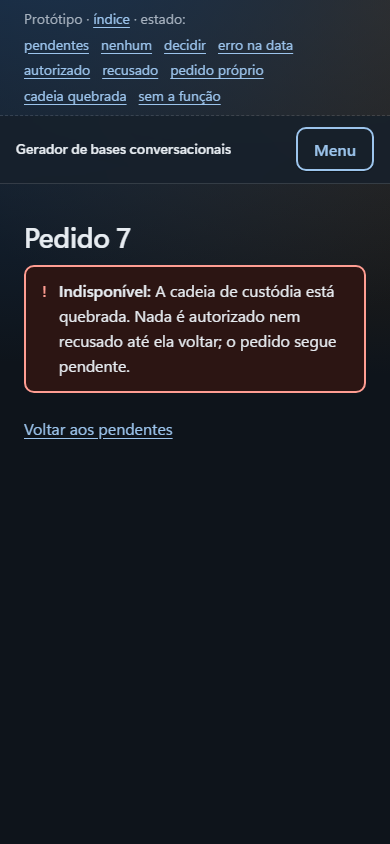
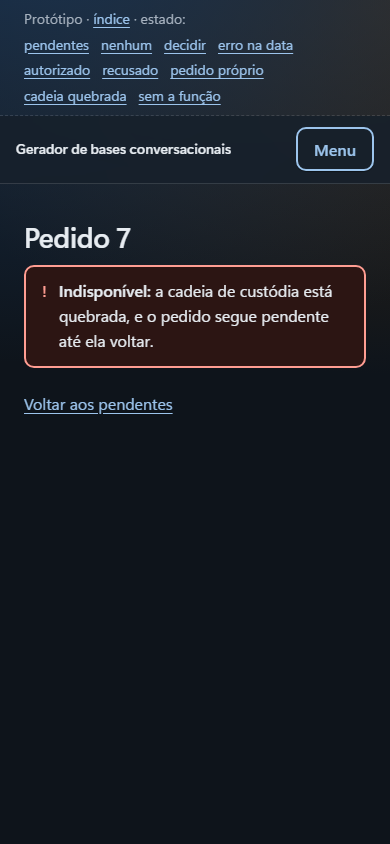
docs: fase 5, achados da revisão do delta até ca1df3d5

Changed region(s): [[0.0615, 0.3389, 0.9538, 0.5237]]

diff --git a/docs/arquitetura/fases/005-pseudonimizacao/prototipos/autorizacao.html b/docs/arquitetura/fases/005-pseudonimizacao/prototipos/autorizacao.html
@@ -182,7 +182,7 @@
             <h1 id="cadeia-titulo">Pedido 7</h1>
             <div class="notice notice--error" role="alert">
                 <span class="notice__mark" aria-hidden="true">!</span>
-                <p><span class="notice__kind">Indisponível:</span> A cadeia de custódia está quebrada. Nada é autorizado nem recusado até ela voltar; o pedido segue pendente.</p>
+                <p><span class="notice__kind">Indisponível:</span> a cadeia de custódia está quebrada, e o pedido segue pendente até ela voltar.</p>
             </div>
             <p><a href="#lista">Voltar aos pendentes</a></p>
         </section>

diff --git a/docs/arquitetura/fases/005-pseudonimizacao/prototipos/prototipo.css b/docs/arquitetura/fases/005-pseudonimizacao/prototipos/prototipo.css
@@ -2,7 +2,8 @@
     Só dos protótipos da fase 5. A barra de estados e a troca de estado por âncora (:target, sem script)
     são andaime de protótipo e não vão para as telas. O resto (recolhido, linha de situação, lista em
     linhas, identidade revelada) segue a decisão 0058 e entra em screens.css como componente quando a
-    fatia de tela precisar.
+    fatia de tela precisar. A barra soma altura que a tela real não tem: a primeira dobra da 0058 se
+    mede sem ela.
 */
 
 /* Andaime: a barra que troca o estado, discreta, acima da tela. */

diff --git a/docs/arquitetura/fases/005-pseudonimizacao/fatia-b-mapa-e-pseudonimizado.md b/docs/arquitetura/fases/005-pseudonimizacao/fatia-b-mapa-e-pseudonimizado.md
@@ -3,11 +3,11 @@
 > Norma pendente. 2026-11-22. Fecha #101. Teto da fatia: 1.200 linhas de produção.
 
 A troca roda síncrona na submissão, logo depois da sanitização e antes de gravar o item, quando a
-[fatia F](fatia-f-correferencia.md) a ligar. Cada item nasce com o pseudonimizado, com o mapa dele (marcador e original, selado com a finalidade
-do mapa) e com os marcadores em claro, o do autor incluído. A tela do lote ganha a seção da
-pseudonimização: marcadores por tipo e itens com marcador, contados dos marcadores do item, só
-números. A reexecução da fase 4 refaz o pseudonimizado e o mapa junto com o sanitizado. O protótipo
-é `lote.html`, em [protótipos](prototipos/index.html).
+[fatia F](fatia-f-correferencia.md) a ligar. Cada item nasce com o pseudonimizado, com o mapa dele
+(marcador e original, selado com a finalidade do mapa) e com os marcadores em claro, o do autor
+incluído. A tela do lote ganha a seção da pseudonimização: marcadores por tipo e itens com marcador,
+contados dos marcadores do item, só números. A reexecução da fase 4 refaz o pseudonimizado e o mapa
+junto com o sanitizado. O protótipo é `lote.html`, em [protótipos](prototipos/index.html).
 
 **Pseudonimizado cifrado** com a chave do item: [0030](../../../decisoes/0030-qual-texto-fica-em-claro.md)
 (linha 24), [0049](../../../decisoes/0049-chave-por-item-e-epoca.md) (linha 27) e CA-3 da #102.
@@ -15,6 +15,10 @@ números. A reexecução da fase 4 refaz o pseudonimizado e o mapa junto com o s
 **O que a F espera da B.** A troca recebe o referente de cada ocorrência pronto, e a B a prova com o
 referente dado no teste. O grupo que vira referente, a ligação da troca à submissão e à reexecução,
 o gatilho de item_resanitized e os testes que passam pela submissão são da F3, que fecha a #102.
+
+**Reexecução e marcadores em uso.** A reexecução mantém as linhas do item em content.marker_in_use e
+em content.item_marker, sem sortear de novo, e insere só o marcador novo. O marcador que some do
+texto sai de item_marker e continua reservado em marker_in_use, para nunca voltar em outra conversa.
 
 **Prova da reexecução idêntica (#102 CA-2).** Rodar de novo no mesmo processo, sobre o mesmo
 sanitizado e o mapa do item, aberto com o evento de leitura: os marcadores vêm do mapa, então outro
@@ -25,7 +29,7 @@ processo não muda o resultado. Nenhum outro mapa é aberto ([contratos](contrat
 | Projeto | Testes |
 |---|---|
 | `Core.Ingestion.Tests` | PseudonymizingAgainGivesTheSameBytesAndMarkers (#102 CA-2, propriedade); SwapTakesNoMapButTheOneOfItsItem; RemovedSpanNeverBecomesAMapEntry (#101 CA-5) |
-| `Core.Persistence.Content.Tests` | DatabaseCopyHasNoReadableMapEntry (#101 CA-1); MapOfOneDomainDoesNotOpenWithTheKeyOfAnother (#101 CA-2); EveryMapOpeningAddsAnEventWithoutTheValue (#101 CA-3); MapCannotBeFilteredInTheDatabase e MapCannotBeOrderedInTheDatabase (#101 CA-4); DatabaseCopyReadsNeitherSanitizedNorPseudonymized (#102 CA-3, opção da 0030); PseudonymizedWithoutItsMapIsRefused e PseudonymizedWithoutTheEventIsRefused (#102 CA-4, uma condição do gatilho cada); RemovedSpanIsRefusedFromTheMapAndTheAttemptIsRecorded (#101 CA-5); ItemMarkersAreEmptiedWithTheItem; MarkerIsUniqueInTheInstallation; DrawLosingToAnotherDomainDrawsAgainWithoutReadingIt |
+| `Core.Persistence.Content.Tests` | DatabaseCopyHasNoReadableMapEntry (#101 CA-1); MapOfOneDomainDoesNotOpenWithTheKeyOfAnother (#101 CA-2); EveryMapOpeningAddsAnEventWithoutTheValue (#101 CA-3); MapCannotBeFilteredInTheDatabase e MapCannotBeOrderedInTheDatabase (#101 CA-4); DatabaseCopyReadsNeitherSanitizedNorPseudonymized (#102 CA-3); PseudonymizedWithoutItsMapIsRefused e PseudonymizedWithoutTheEventIsRefused (#102 CA-4, uma condição do gatilho cada); RemovedSpanIsRefusedFromTheMapAndTheAttemptIsRecorded (#101 CA-5); ItemMarkersAreEmptiedWithTheItem; MarkerIsUniqueInTheInstallation; ResanitizedItemKeepsItsMarkersWithoutDrawingAgain; MarkerGoneFromTheTextStaysReserved; DrawLosingToAnotherDomainDrawsAgainWithoutReadingIt |
 | `Core.Host.Tests` | EveryWritingPathRefusesTextThatWasNotPseudonymized (#102 CA-4); BatchScreenShowsMarkerCountsByKindAndNoText |
 | `Core.Host.Tests.Browser` | PseudonymizationSectionIsReadByKeyboardAndPassesTheAccessibilityCheck |
 

diff --git a/docs/arquitetura/fases/005-pseudonimizacao/riscos.md b/docs/arquitetura/fases/005-pseudonimizacao/riscos.md
@@ -26,7 +26,7 @@ reversão, cada um uma linha nova com o evento na mesma transação.
 | Precisão | A correferência liga a menção ao nome do autor errado, ou não liga | A F1 mede a ligação ao autor à parte, e a decisão diz se ela vale; se não vale, é limite declarado: a menção ao autor recebe marcador próprio, distinto do dele | F1: MeasurementReportsTheLinkToAuthorsApart; F3: MentionLinkedToAnAuthorGetsTheAuthorMarker; MentionOfAnAuthorWithTheLinkOffGetsItsOwnMarker |
 | Precisão | Conversa longa demais para um pedido | A F1 mede tempo e memória pelo tamanho da conversa, e a decisão fixa o máximo do pedido | F1: MeasurementReportsTimeAndMemoryByConversationSize |
 | Dado pessoal | O mesmo marcador em duas conversas liga pessoas que o sistema não sabe ligar | Escopo na conversa (0057) e unicidade na instalação | A: NoMarkerAppearsInTwoConversations; B: MarkerIsUniqueInTheInstallation |
-| Dado pessoal | Item antigo ganha pseudonimizado com ocorrência que a resposta de agora não traz | Sem par de mesma posição e tipo, o item é recusado com o motivo e fica sem pseudonimizado | F3: OldItemWithAnOccurrenceWithoutPairIsRefusedWithTheReason |
+| Dado pessoal | Item antigo ganha pseudonimizado com ocorrência que a resposta de agora não traz | Sem par de mesmo texto, posição e tipo, o item é recusado e fica sem pseudonimizado, fora da anotação; o acompanhamento da fila o conta com o motivo, e um pedido novo o põe na fila outra vez | F3: OldItemWithAnOccurrenceWithoutPairIsRefusedWithTheReason |
 | Dado pessoal | O marcador revela algo do original | O número é sorteado, sem relação com o nome nem com a ordem de chegada | A: MarkerCarriesNoInitialLengthNorAlphabeticalPosition; MarkerDoesNotRevealTheOrderOfAppearance (#100 CA-4) |
 | Dado pessoal | Uma senha vai para o mapa | Entrada de destino remover lança antes de selar; o gravador a recusa e o evento fica | B: RemovedSpanIsRefusedFromTheMapAndTheAttemptIsRecorded (#101 CA-5) |
 | Dado pessoal | Uma cópia do banco expõe o mapa ou o porquê do pedido | As entradas e o texto do pedido vão selados com a finalidade do mapa e a chave da linha | B: DatabaseCopyHasNoReadableMapEntry (#101 CA-1); C: DatabaseCopyHasNoReadableRequestText |
@@ -53,5 +53,5 @@ Nenhum item tem pseudonimizado antes da F3, que o dá a cada um em segundo plano
 ([fatia F](fatia-f-correferencia.md)). Os gravados antes da fatia A guardam o lugar como `Preserve`
 no destino selado (`OccurrenceJson`, linha 37), e a política não entra na versão da lista de passos
 (`SanitizationSteps`, linhas 23 a 25). Nesse primeiro pseudonimizado, o `Preserve` de lugar vira
-`Pseudonymize` sem chamar o serviço, exceção declarada à regra da reexecução
+`Pseudonymize` sem que o serviço o decida, exceção declarada à regra da reexecução
 (`SanitizationRerun`, linhas 5 a 8), pela [0056](../../../decisoes/0056-toponimo-vira-marcador.md).

diff --git a/docs/arquitetura/fases/005-pseudonimizacao/fatia-f-correferencia.md b/docs/arquitetura/fases/005-pseudonimizacao/fatia-f-correferencia.md
@@ -14,9 +14,8 @@ liga ao nome de um autor da mesma conversa recebe o marcador dele.
 ([medição](../../../historico/003-medicao-do-modelo.md), linha 18). F1 escolhe o modelo, mede em
 pt-BR sobre conversas inteiras ([015](../../../operacao/015-medicao-do-modelo-de-linguagem.md)) e
 escreve a decisão nova que substitui a [0018](../../../decisoes/0018-contrato-da-fronteira.md) na
-forma da resposta. A decisão fixa o
-limiar de precisão, o tamanho máximo do pedido e se a ligação ao nome do autor é confiável; modelo
-abaixo do limiar não entra. O modelo tem de caber na
+forma da resposta. A decisão fixa o limiar de precisão, o tamanho máximo do pedido e se a ligação ao
+nome do autor é confiável; modelo abaixo do limiar não entra. O modelo tem de caber na
 [0041](../../../decisoes/0041-distribuicao-do-servico-de-linguagem.md) e operar sem serviço externo.
 
 **F2 — serviço e contrato.** O pedido leva os textos do item na ordem de `MaterialTexts`, cada
@@ -29,13 +28,14 @@ a devolver grupos.
 **F3 — o núcleo usa o grupo.** Um pedido por item; o grupo vira o referente da troca da fatia B, e
 a F3 liga a troca à submissão e à reexecução da fase 4. Até ela, nenhum item recebe pseudonimizado.
 
-**Primeiro pseudonimizado.** A F3 o dá, em segundo plano, pela fila e pelo trabalhador da
-reexecução da fase 4 (`RerunService`), a todo item sem ele: os gravados antes da F3. O serviço é
-chamado sobre o bruto do item só pelo grupo; cada ocorrência guardada (`OccurrenceJson`, linha 37)
-toma o grupo da de mesmo texto, posição e tipo, e item com ocorrência sem par é recusado com o
-motivo. Nenhum destino é decidido de novo, com uma exceção declarada à regra da reexecução
-(`SanitizationRerun`, linhas 5 a 8): o `Preserve` de lugar dos itens anteriores à fatia A vira
-`Pseudonymize` sem chamar o serviço ([0056](../../../decisoes/0056-toponimo-vira-marcador.md)).
+**Primeiro pseudonimizado.** A F3 o dá, em segundo plano, pela fila e pelo trabalhador da reexecução
+da fase 4 (`RerunService`), a todo item gravado antes dela. O serviço é chamado sobre o bruto só
+pelo grupo; cada ocorrência guardada (`OccurrenceJson`, linha 37) toma o grupo da de mesmo texto,
+posição e tipo. Item com ocorrência sem par é recusado, fica sem pseudonimizado e fora da anotação,
+e o acompanhamento da fila o conta com o motivo; um pedido novo o põe na fila outra vez. Nenhum
+destino é decidido de novo, com uma exceção declarada (`SanitizationRerun`, linhas 5 a 8): o
+`Preserve` de lugar dos itens anteriores à fatia A vira `Pseudonymize` sem que o serviço o decida
+([0056](../../../decisoes/0056-toponimo-vira-marcador.md)).
 
 ## Critérios de aceite
 

diff --git a/docs/decisoes/0056-toponimo-vira-marcador.md b/docs/decisoes/0056-toponimo-vira-marcador.md
@@ -40,11 +40,11 @@ reversão, sob a mesma chave, finalidade e auditoria do nome de pessoa.
 Piora a análise que depende do lugar real (região, cidade grande ou pequena): ela passa a exigir
 reversão autorizada, item por item.
 
-O destino decidido na entrada fica guardado com cada item, e os gravados antes da mudança guardam
-o lugar como preservado. No primeiro pseudonimizado deles, esse destino vira pseudonimizar sem
-chamar o serviço de linguagem: é exceção declarada à regra de que a reexecução não decide destino
-de novo (`core/src/Core.Ingestion/Sanitizing/SanitizationRerun.cs`, linhas 5 a 8), e vale só para o
-lugar, o único destino preservado.
+O destino decidido na entrada fica guardado com cada item, e os gravados antes da mudança guardam o
+lugar como preservado. No primeiro pseudonimizado deles, esse destino vira pseudonimizar sem que o
+serviço de linguagem o decida de novo: é exceção declarada à regra de que a reexecução não decide
+destino de novo (`core/src/Core.Ingestion/Sanitizing/SanitizationRerun.cs`, linhas 5 a 8), e vale só
+para o lugar, o único destino preservado.
 
 ## O que reabre
 

diff --git a/docs/decisoes/0058-padrao-de-usabilidade-e-visual.md b/docs/decisoes/0058-padrao-de-usabilidade-e-visual.md
@@ -33,9 +33,10 @@ Os protótipos da fase 5 foram refeitos sem isso.
 8. Campo com rótulo curto; dica só quando o formato não é óbvio; "todos os campos são obrigatórios"
    uma vez, e não em cada campo.
 
-O PR de tela traz capturas em 390x844 e 1366x768, no tema do sistema, e quem revisa confere as
-regras nelas ([tela](../arquitetura/padroes/004-tela.md)). As telas que já existem são ajustadas
-depois da fase 5, uma issue por tela.
+No computador (1366x768), a tela cabe na primeira dobra, com a ação principal visível. O PR de tela
+traz capturas em 390x844 e 1366x768, no tema do sistema, e quem revisa confere as regras nelas
+([tela](../arquitetura/padroes/004-tela.md)). As telas que já existem são ajustadas depois da fase
+5, uma issue por tela.
 
 ## Alternativas recusadas
 

diff --git a/docs/arquitetura/003-fluxo-do-material.md b/docs/arquitetura/003-fluxo-do-material.md
@@ -30,8 +30,8 @@ sanitização fez.
 
 **Pseudonimização.** O que resta apontando para pessoas é trocado por rótulos estáveis, e a
 correspondência vai para o mapa de reversão, cifrado com chave e finalidade próprias. Estável é a
-palavra que importa: a mesma pessoa é o mesmo rótulo em todo o domínio, porque é isso que mantém a
-conversa legível depois de anonimizada.
+palavra que importa: a mesma pessoa é o mesmo rótulo em toda a conversa, e só nela
+([0057](../decisoes/0057-escopo-do-marcador-e-a-conversa.md)), porque é isso que a mantém legível.
 
 **Anotação.** Pessoas atribuem categorias da taxonomia do domínio
 ([0004](../decisoes/0004-taxonomia-configuravel.md)). O texto não muda nesta etapa; o que se acumula

diff --git a/docs/roadmap/005-pseudonimizacao.md b/docs/roadmap/005-pseudonimizacao.md
@@ -50,5 +50,5 @@ finalidade própria que o mapa exige.
 ## O que destrava
 
 A tela de anotação pode buscar e ordenar sobre o pseudonimizado, abrindo o item na aplicação
-([0030](../decisoes/0030-qual-texto-fica-em-claro.md)), que é o que torna o trabalho humano viável. E o controle de acesso passa a ter a operação que mais precisa ser negada por papel: a
-reversão.
+([0030](../decisoes/0030-qual-texto-fica-em-claro.md)), que é o que torna o trabalho humano viável.
+E o controle de acesso passa a ter a operação que mais precisa ser negada por papel: a reversão.
